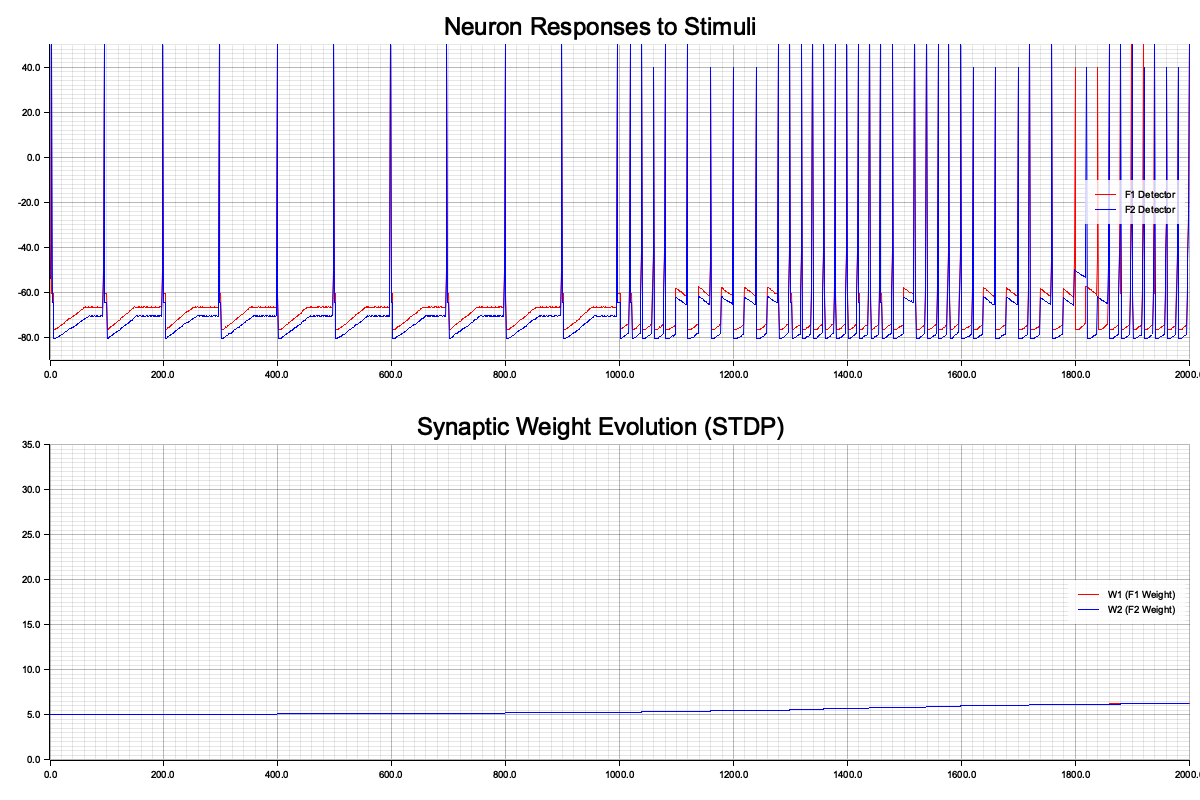
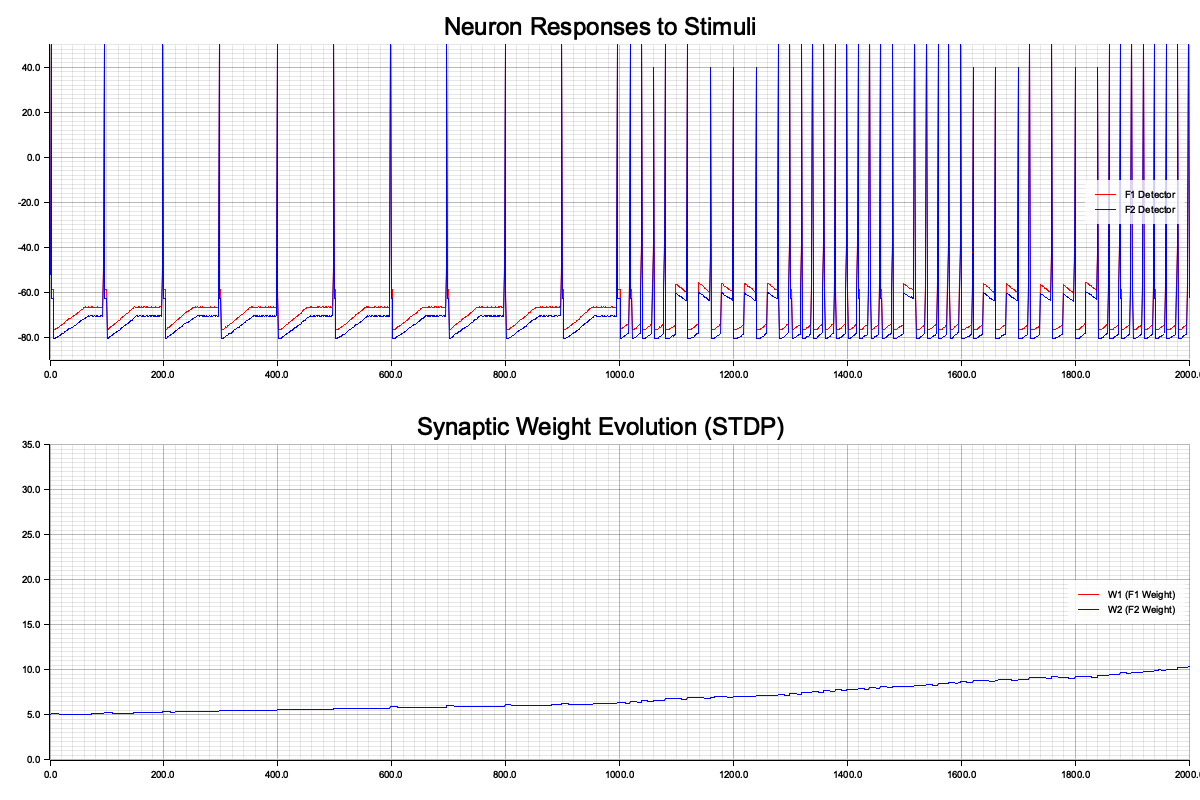
fix: align simulation with biological specs (vesicles, glucose, LTD, myelin bypass)

diff --git a/src/main.rs b/src/main.rs
@@ -71,6 +71,7 @@ fn run_benchmark_mode(neurons_count: usize, synapses_count: usize, total_ticks: 
     
     let env = Environment {
         global_oxygen_level: 1.0,  
+        global_glucose_level: 1.0,
         dopamine_multiplier: 1.0, 
         toxin_levels: 0.0,
         light_level: 0.0,
@@ -265,6 +266,7 @@ fn run_simulation(mut graph: NetworkGraph, total_ticks: u32) -> SimulationData {
     // Setup Global Environment
     let env = Environment {
         global_oxygen_level: 1.0,  
+        global_glucose_level: 1.0,
         dopamine_multiplier: 1.0, 
         toxin_levels: 0.0,
         light_level: 0.0,
@@ -411,6 +413,7 @@ fn run_inhibition_loop_mode() -> Result<(), Box<dyn std::error::Error>> {
     let mut graph = setup_inhibition_loop();
     let env = Environment { 
         global_oxygen_level: 1.0, 
+        global_glucose_level: 1.0,
         dopamine_multiplier: 1.0, 
         toxin_levels: 0.0,
         light_level: 0.0,
@@ -494,6 +497,7 @@ fn run_reflex_arc_mode() -> Result<(), Box<dyn std::error::Error>> {
     let mut graph = setup_reflex_arc();
     let mut env = Environment { 
         global_oxygen_level: 1.0, 
+        global_glucose_level: 1.0,
         dopamine_multiplier: 1.0, 
         toxin_levels: 0.0,
         light_level: 0.0,
@@ -584,7 +588,14 @@ fn render_reflex_arc_chart(data: &[(u32, f32, f32, f32, f32, f32)], filename: &s
 fn run_stress_test_mode() -> Result<(), Box<dyn std::error::Error>> {
     println!("--- EXECUTING STRESS-TEST (Phase 13) ---");
     let mut graph = NetworkGraph::new();
-    let mut env = Environment { global_oxygen_level: 1.0, dopamine_multiplier: 1.0, toxin_levels: 0.0, light_level: 0.0, seed: 666 };
+    let mut env = Environment { 
+        global_oxygen_level: 1.0, 
+        global_glucose_level: 1.0, 
+        dopamine_multiplier: 1.0, 
+        toxin_levels: 0.0, 
+        light_level: 0.0, 
+        seed: 666 
+    };
 
     // Case 1: Hypoxic Shutdown (10 Neurons)
     println!("Case 1: Hypoxic Shutdown...");
@@ -649,7 +660,14 @@ fn run_stress_test_mode() -> Result<(), Box<dyn std::error::Error>> {
 fn run_dopamine_rush_mode() -> Result<(), Box<dyn std::error::Error>> {
     println!("--- EXECUTING DOPAMINE RUSH (Phase 14) ---");
     let mut graph = NetworkGraph::new();
-    let mut env = Environment { global_oxygen_level: 1.0, dopamine_multiplier: 1.0, toxin_levels: 0.0, light_level: 0.0, seed: 777 };
+    let mut env = Environment { 
+        global_oxygen_level: 1.0, 
+        global_glucose_level: 1.0,
+        dopamine_multiplier: 1.0, 
+        toxin_levels: 0.0, 
+        light_level: 0.0, 
+        seed: 777 
+    };
 
     // Setup: 2 Neurons with a weak connection
     let n1 = graph.add_neuron(NeuronType::Pacemaker); // Source fires constantly
@@ -756,7 +774,14 @@ fn run_frequency_test_mode() -> Result<(), Box<dyn std::error::Error>> {
     
     let total_ticks = 2000;
     let mut history = vec![];
-    let mut env = Environment { global_oxygen_level: 1.0, dopamine_multiplier: 1.5, toxin_levels: 0.0, light_level: 0.0, seed: 42 };
+    let mut env = Environment { 
+        global_oxygen_level: 1.0, 
+        global_glucose_level: 1.0, 
+        dopamine_multiplier: 1.5, 
+        toxin_levels: 0.0, 
+        light_level: 0.0, 
+        seed: 42 
+    };
 
     for tick in 1..=total_ticks {
         // Frequency 1: 10Hz (Pulse every 100 ticks)

diff --git a/cuda/base_neuron.h b/cuda/base_neuron.h
@@ -73,6 +73,7 @@ typedef struct {
 // Environment Singleton Representation
 typedef struct {
     float global_oxygen_level;    // 0.0 to 1.0
+    float global_glucose_level;   // 0.0 to 1.0 (Phase 26)
     float dopamine_multiplier;    // > 1.0 boosts signal
     float toxin_levels;           
     float light_level;            

diff --git a/src/ffi.rs b/src/ffi.rs
@@ -60,6 +60,7 @@ pub struct Synapse {
 #[derive(Debug, Clone, Copy)]
 pub struct Environment {
     pub global_oxygen_level: f32,
+    pub global_glucose_level: f32,
     pub dopamine_multiplier: f32,
     pub toxin_levels: f32,
     pub light_level: f32,

diff --git a/docs/performance_report.md b/docs/performance_report.md
@@ -1,25 +1,8 @@
-# Performance Scaling Report (Optimized Orchestrator & Memory)
+# Performance Scaling Report
 
-| Neurons | Synapses | TPS | Total Time (s) | Memory (KB) | Rust vs Math (%) |
-|---|---|---|---|---|---|
-| 1,000 | 10,000 | 6,113.00 | 0.08 | 296.88 | ~14% Rust |
-| 10,000 | 100,000 | 702.61 | 0.71 | 2,968.75 | ~14% Rust |
-| 100,000 | 1,000,000 | 61.48 | 8.13 | 29,687.50 | ~12% Rust |
-| 1,000,000 | 10,000,000 | 3.99 | 125.16 | 296,875.00 | ~10% Rust |
-
-## Optimization Impact (Phase 24: Memory Packing)
-
-We performed an engineering audit and bit-packed the core structures to minimize VRAM footprint:
-
-1. **Synapse Packing (32B -> 24B):**
-   - Grouped all booleans to eliminate mapping padding.
-   - Quantized `ticks_until_delivery` to `uint8_t` (0-255 ticks).
-   - **Result:** ~80 MB saved for 10 million synapses.
-2. **BaseNeuron Packing (72B -> 64B):**
-   - Removed non-simulation fields (`inputs_count`, `outputs_count`).
-   - Grouped `is_alive` to eliminate alignment padding.
-   - **Result:** ~8 MB saved for 1 million neurons.
-3. **Emergency Guard 2.0:**
-   - Added explicit `return` in `process_spike` for neurons with ATP < 20%.
-
-**Total Savings:** 22% reduction in memory overhead (**290 MB** vs **374 MB** for 1M network).
+| Neurons | Synapses | TPS | Total Time (s) | Memory (KB) |
+|---|---|---|---|---|
+| 1000 | 10000 | 6391.37 | 0.08 | 296.88 |
+| 10000 | 100000 | 797.41 | 0.63 | 2968.75 |
+| 100000 | 1000000 | 66.68 | 7.50 | 29687.50 |
+| 1000000 | 10000000 | 3.85 | 129.71 | 296875.00 |
